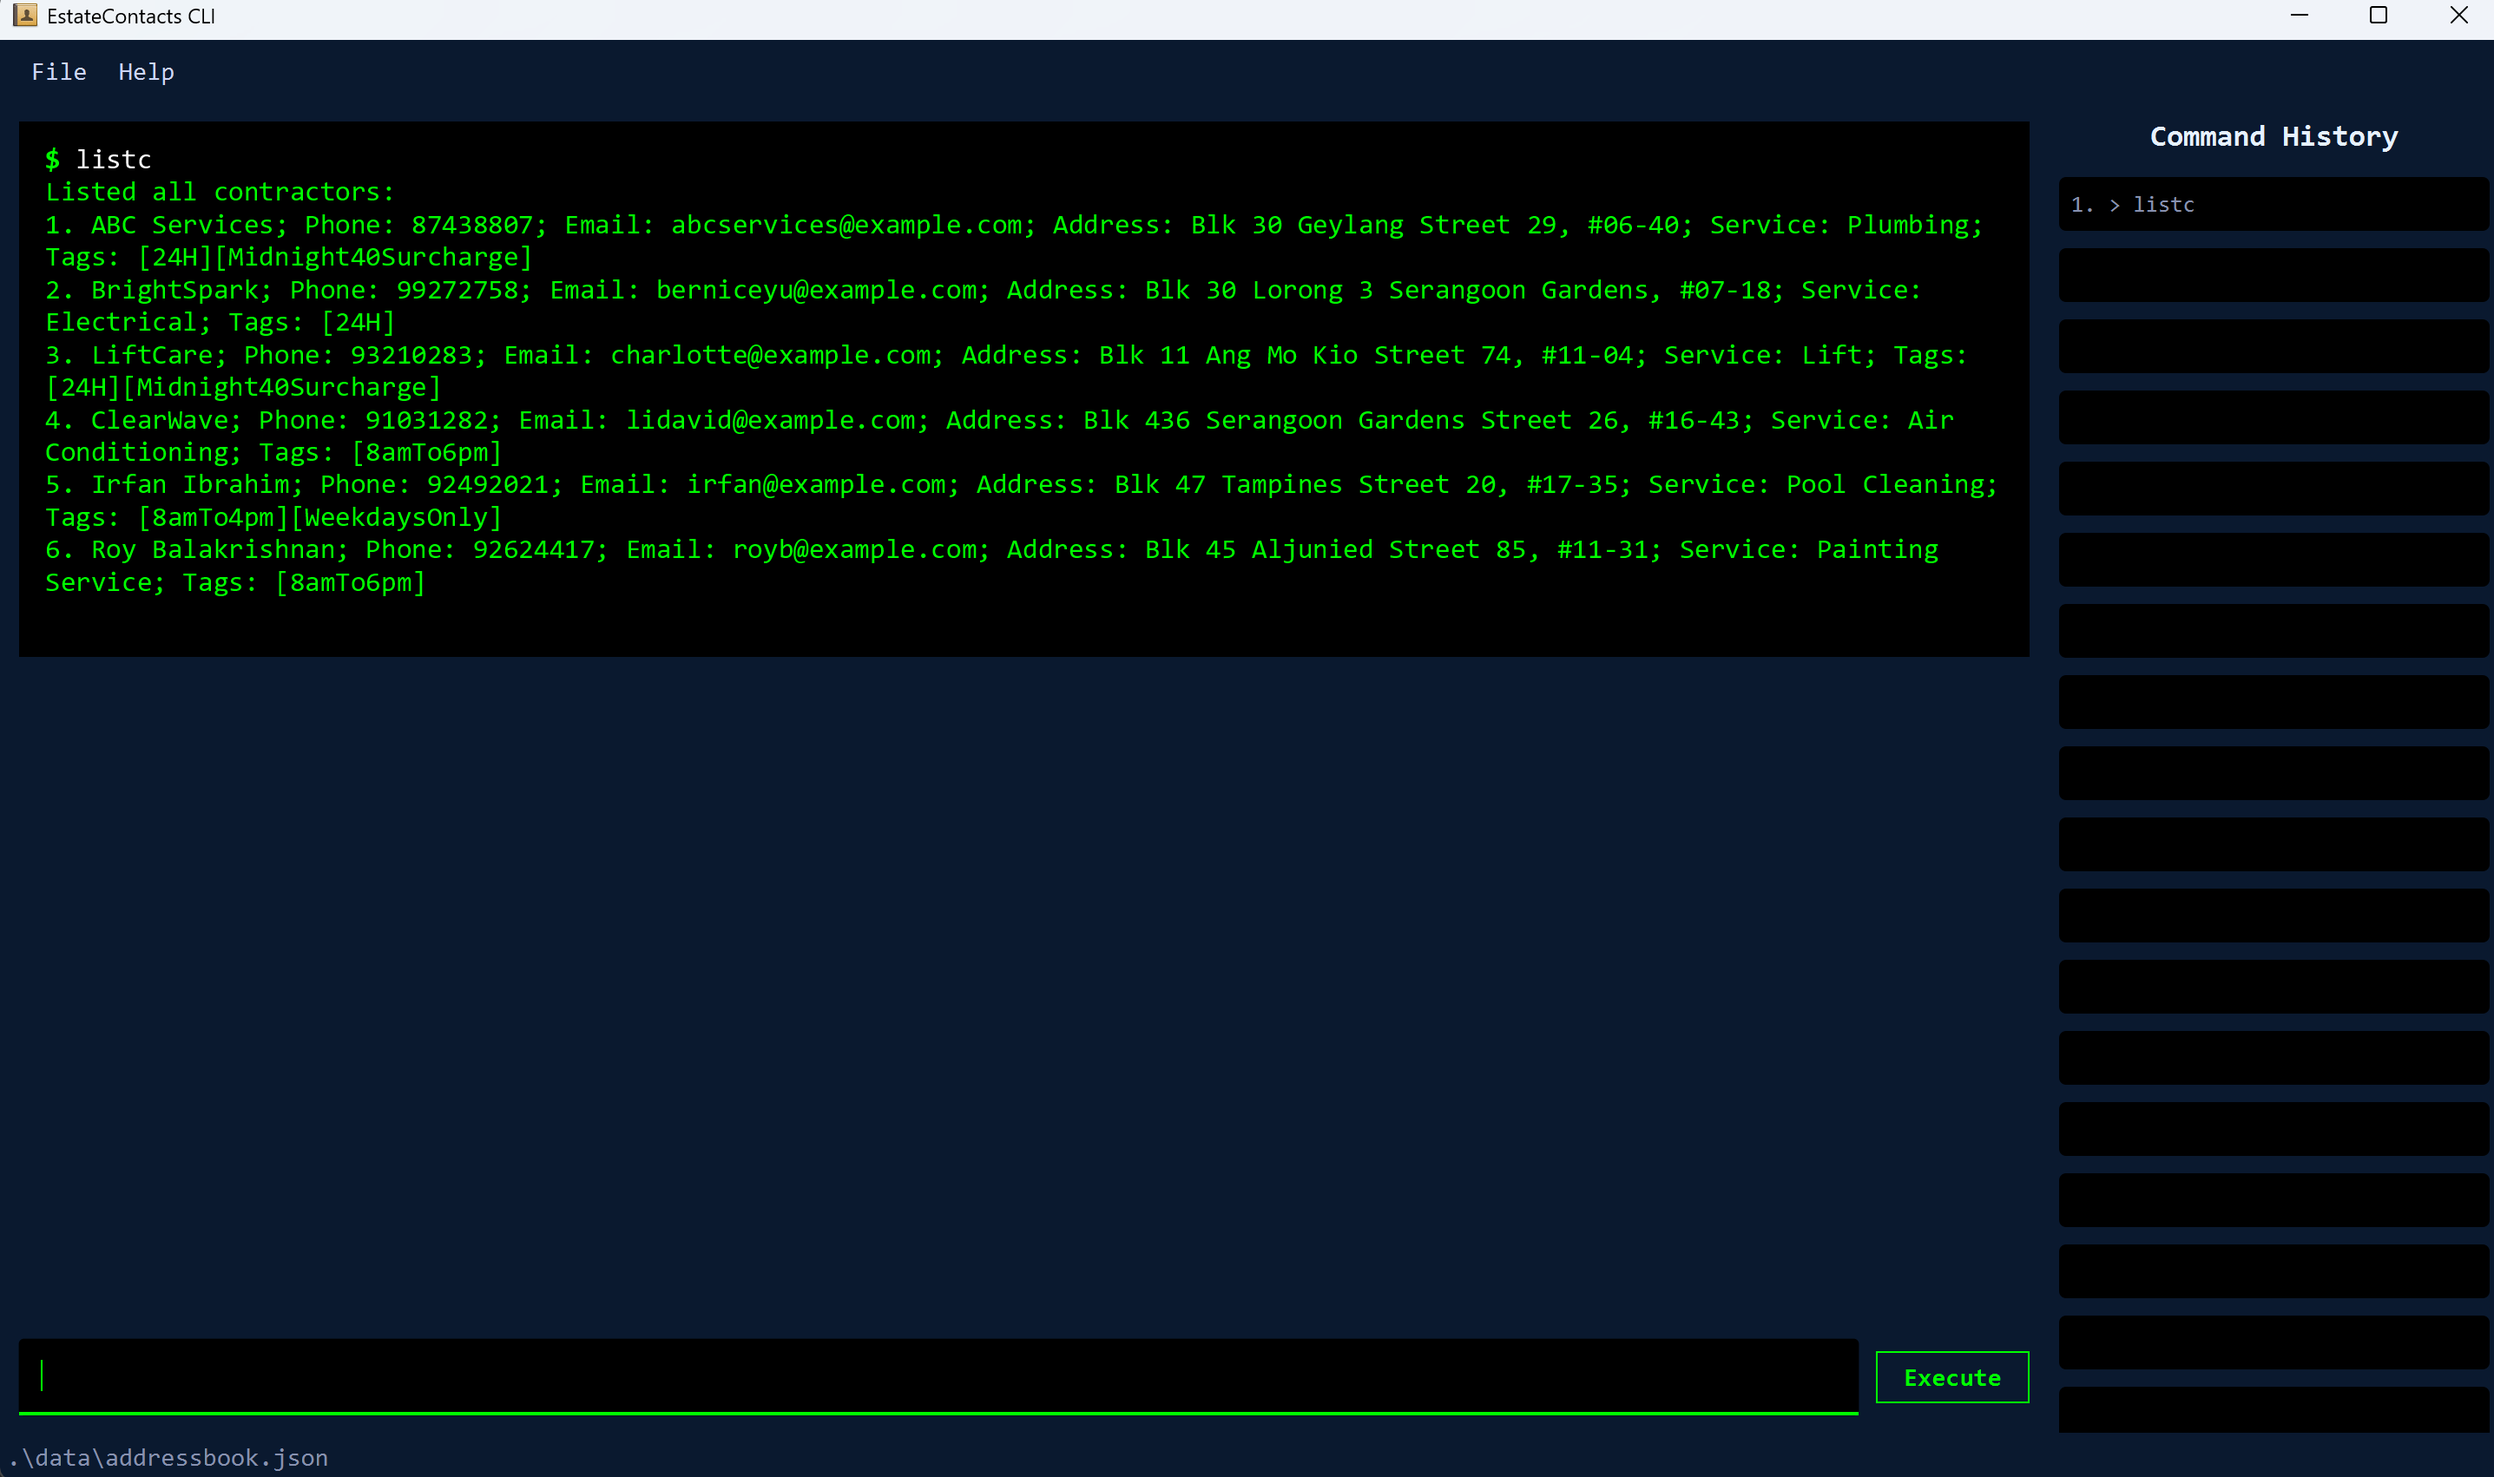
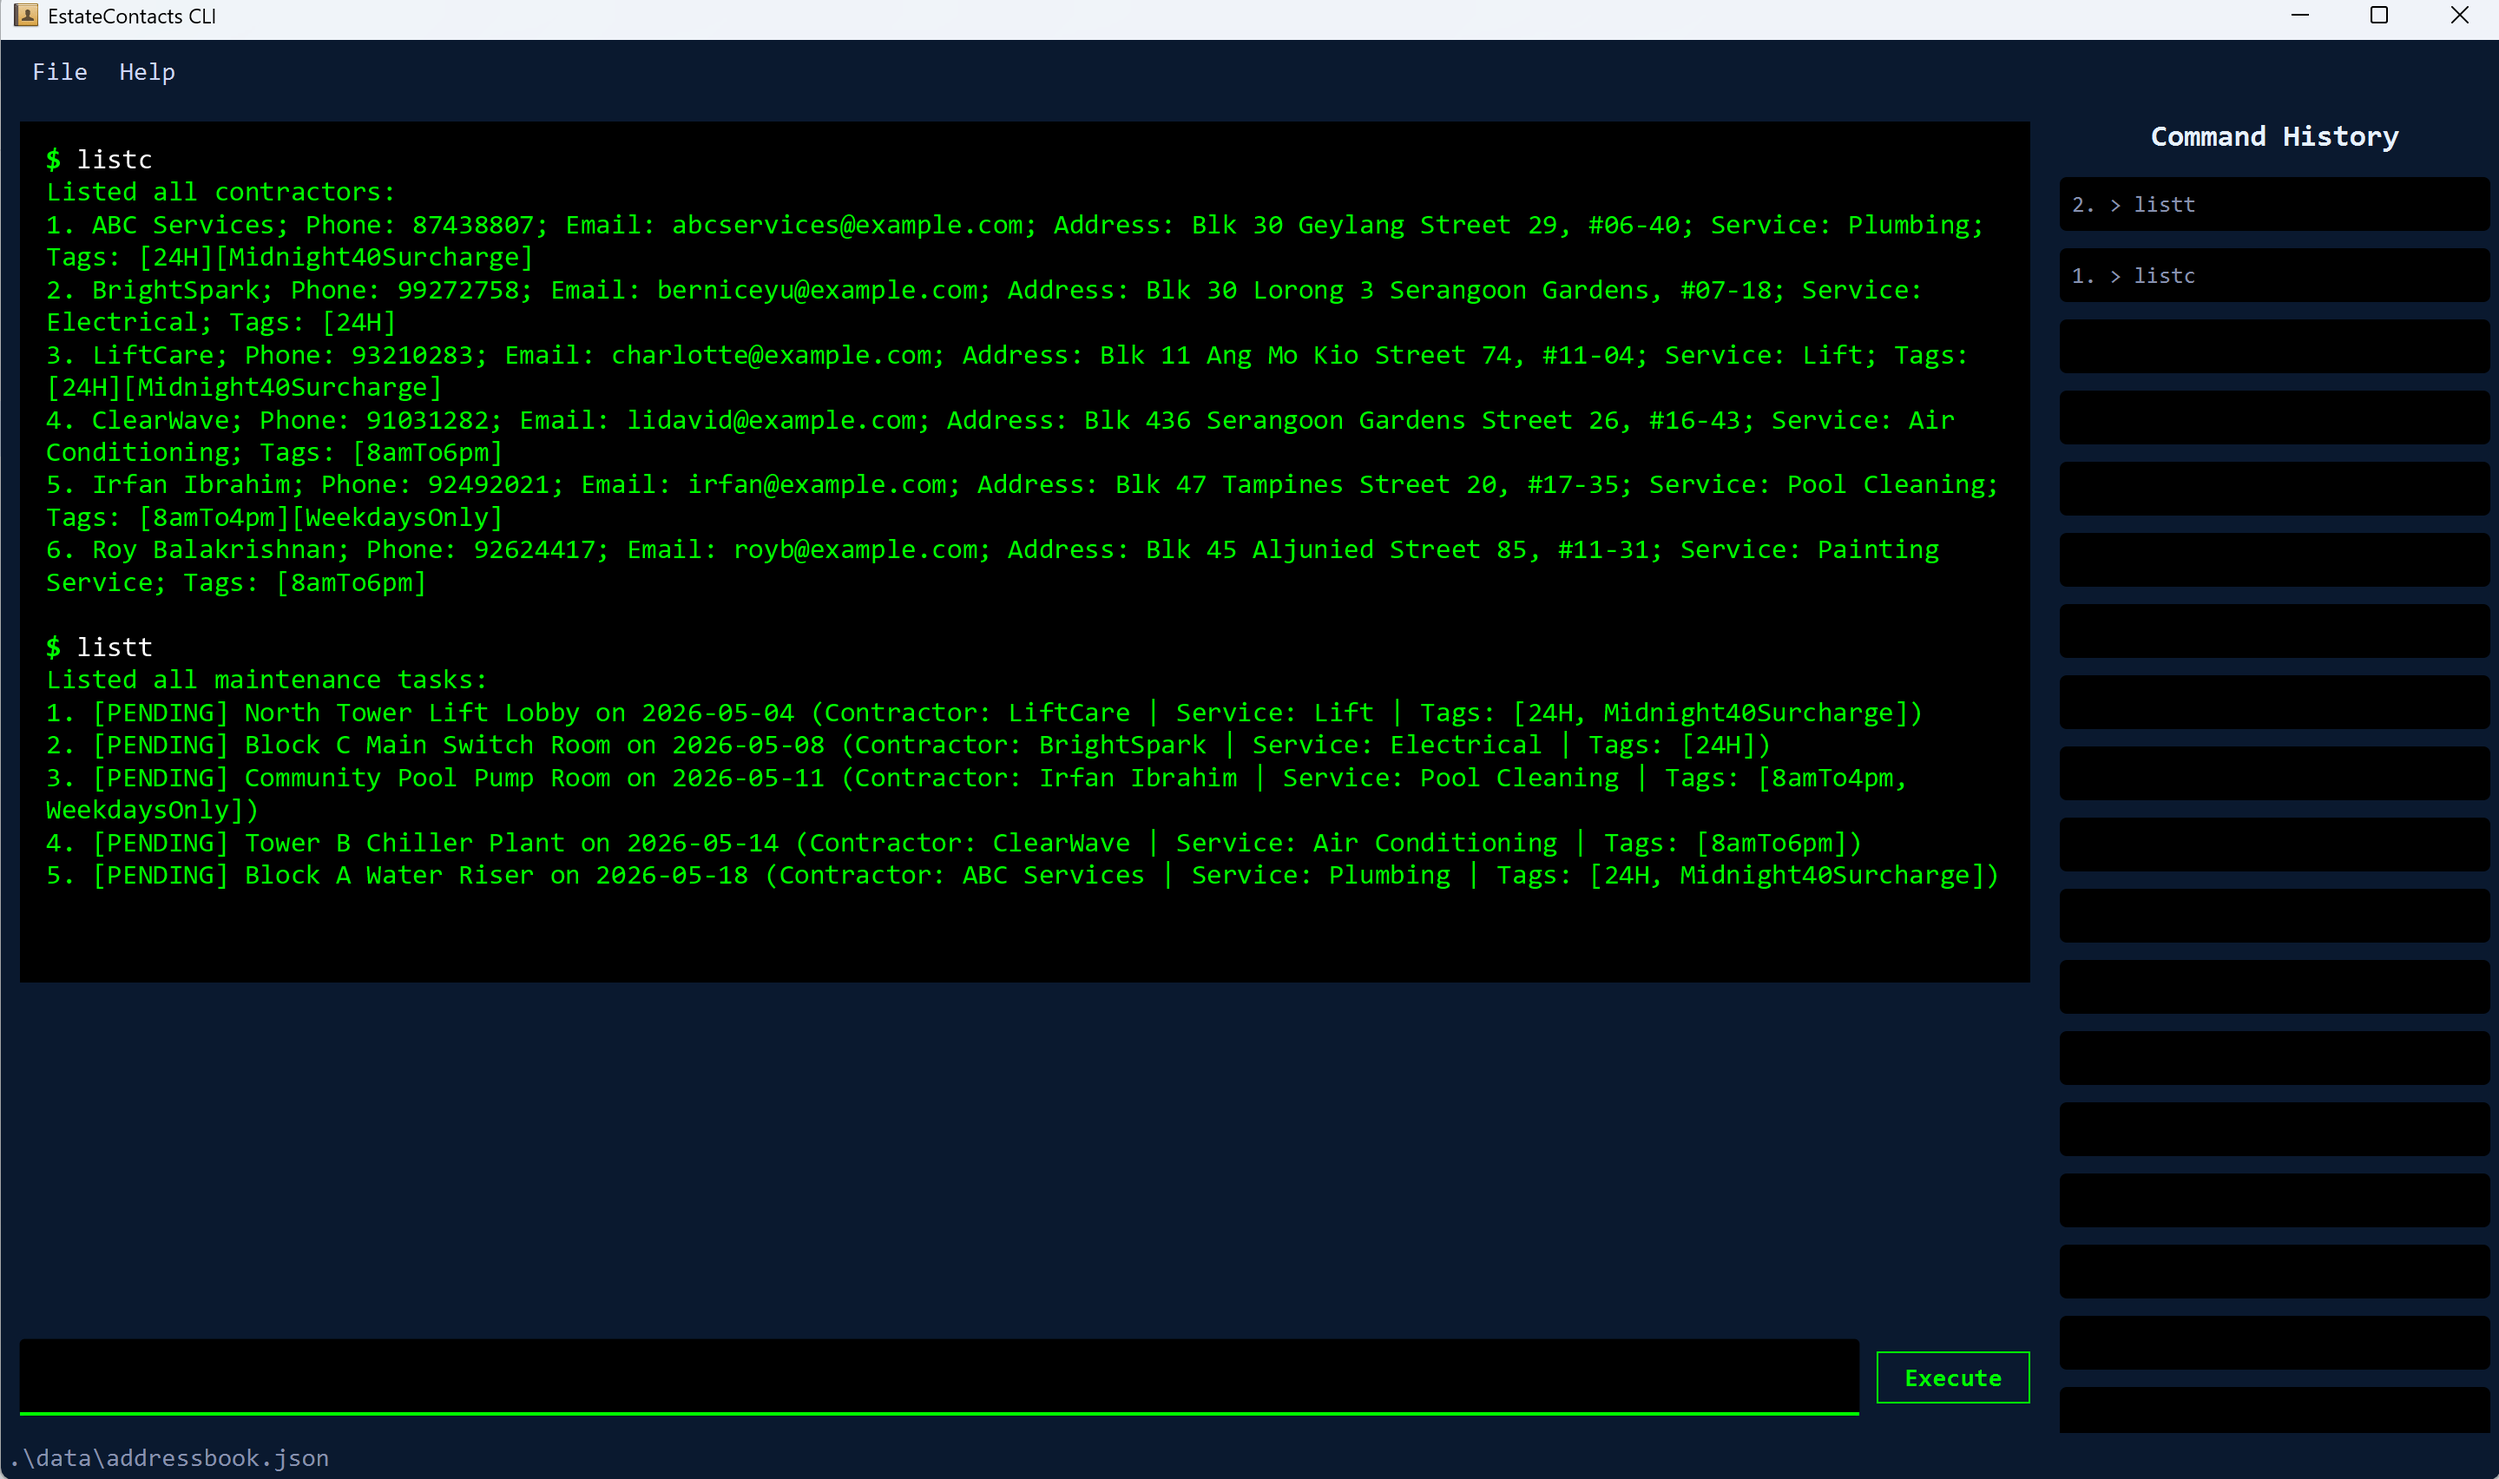
Update UG with example command images

diff --git a/docs/UserGuide.md b/docs/UserGuide.md
@@ -25,7 +25,7 @@ EstateContacts is a **desktop address book app for managing contacts, optimized 
 3. Copy the file to the folder you want to use as the _home folder_ for EstateContacts.
 
 4. Open a command terminal, `cd` into the folder you put the jar file in, and use the `java -jar estatecontacts.jar` command to run the application.<br>
-   A GUI similar to the below should appear in a few seconds. Note how the app contains some sample data.<br>
+   A GUI similar to the below should appear in a few seconds. Note how the app contains sample data for contractors and maintenance tasks.<br>
    ![Ui](images/Ui.png)
 
 5. Type the command in the command box and press Enter to execute it. e.g. typing **`help`** and pressing Enter will open the help window.<br>
@@ -37,7 +37,7 @@ EstateContacts is a **desktop address book app for managing contacts, optimized 
 
    * `delc 3` : Deletes the 3rd contact shown in the current list.
 
-   * `clear confirm` : Deletes all contacts and pending tasks. Completed tasks are preserved for reporting.
+   * `listt` : Lists all tasks.
 
    * `exit` : Exits the app.
 
@@ -109,11 +109,15 @@ Examples:
 * `addc n/Betsy Crowe t/friend e/betsycrowe@example.com a/Newgate Prison p/1234567 s/Electrical t/criminal`
 * `addc n/AirCool Pte Ltd p/91234567 e/contact@aircool.com a/10 Industrial Road s/Air Con Servicing t/24H`
 
+![addc](images/addc.png)
+
 ### Listing all contractors : `listc`
 
 Shows a list of all contractors in EstateContacts.
 
 Format: `listc`
+
+![listc](images/listc.png)
 
 ### Locating contractors by name or service : `findc`
 
@@ -139,12 +143,12 @@ For example, if `listc` shows Rachel Ng at index 5, but `findc n/Rachel` shows h
 
 </box>
 
-
 Examples:
 * `findc n/John` returns `john` and `John Doe`
 * `findc n/amy bob` returns `Amy Lee`, `Bob Tan`
 * `findc s/Air` returns contractors with service `Air`
-  ![result for 'find amy bob'](images/findByService.png)
+
+![find](images/find.png)
 
 ### Deleting a contractor : `delc`
 
@@ -160,12 +164,13 @@ Format: `delc INDEX`
 **Caution:** Deleting a contractor will **not** delete their associated maintenance tasks. Any tasks previously assigned to the deleted contractor will still appear in the task list with the contractor's details preserved at the time the task was created. It is recommended to delete associated pending tasks via `delt` before deleting a contractor.
 * After `delc INDEX`, contractors below that index shift up by 1. Example: deleting index 2 makes old index 3 become new index 2.
 
-
 </box>
 
 Examples:
-* `listc` followed by `delc 2` deletes the 2nd contractor in EstateContacts.
+* `listc` followed by `delc 6` deletes the 6th contractor in EstateContacts.
 * `findc n/Betsy` followed by `delc 1` deletes the 1st contractor in the results of the `findc` command.
+
+![delc](images/delc.png)
 
 ### Editing a contractor : `editc`
 
@@ -189,6 +194,8 @@ Format: `editc INDEX [n/NAME] [p/PHONE] [e/EMAIL] [a/ADDRESS] [s/SERVICE] [t/TAG
 
 Examples:
 * `editc 1 p/91234567 e/johndoe@example.com`
+
+![editc](images/editc.png)
 
 ### Maintenance task features
 
@@ -221,11 +228,15 @@ Examples:
 * `listc` followed by `addt f/Sports Hall d/2026-12-01 c/2` adds a task for Sports Hall on 1 Dec 2026 assigned to the 2nd contractor in the displayed list.
 * `listc` followed by `addt f/Function Room d/2026-06-20 c/4` adds a task for Function Room on 20 Jun 2026 assigned to the 4th contractor.
 
+![addt](images/addt.png)
+
 ### Listing all tasks : `listt`
 
 Shows a list of all tasks in EstateContacts.
 
 Format: `listt`
+
+![listt](images/listt.png)
 
 ### Editing a task : `editt`
 
@@ -237,7 +248,7 @@ Format: `editt INDEX [f/FACILITY] [d/DATE] [c/CONTRACTOR_INDEX]`
 * `INDEX`: Must be a positive integer (1, 2, 3, …) referring to the index shown in the displayed maintenance task list.
 * At least one optional field must be provided.
 * `FACILITY`: Must be between 1 and 50 characters (after trimming leading/trailing spaces).
-* `DATE`: Must be in `YYYY-MM-DD` format, must be a valid calendar date, and **must not be a date in the past**.
+* `DATE`: Must be in `YYYY-MM-DD` format and must be a valid calendar date (e.g. `2026-02-30` is invalid).
 * `CONTRACTOR_INDEX`: Must be a positive integer referring to the index shown in the **currently displayed contractor list**.
 
 <box type="warning" seamless>
@@ -250,10 +261,12 @@ Format: `editt INDEX [f/FACILITY] [d/DATE] [c/CONTRACTOR_INDEX]`
 
 </box>
 
-**Tip 2 :** You are allowed to edit tasks to dates in the past (e.g., to retroactively fix logs for completed maintenance work).
+**Tip:** You are allowed to edit tasks to dates in the past (e.g., to retroactively fix logs for completed maintenance work).
 
 Examples:
 * `editt 1 f/Function Room d/2026-12-15`
+
+![editt](images/editt.png)
 
 ### Deleting a task : `delt`
 
@@ -273,12 +286,16 @@ Format: `delt INDEX`
 Examples:
 * `delt 1`
 
+![delt](images/delt.png)
+
+
 ### Sorting tasks by date : `sortt`
 
 Sorts the maintenance task list by date (ascending).
 
 Format: `sortt`
 
+![sortt](images/sortt.png)
 
 ### Marking a task as complete : `donet`
 
@@ -291,6 +308,8 @@ Format: `donet INDEX`
 
 Examples:
 * `listt` followed by `donet 1` marks the 1st task as completed. Running `donet 1` again reverts it to pending.
+
+![donet](images/donet.png)
 
 ### Viewing maintenance history for a facility : `history`
 
@@ -305,6 +324,8 @@ Format: `history f/FACILITY_NAME`
 Examples:
 * `history f/Sports Hall` displays the maintenance history for the "Sports Hall".
 * `history f/Function Room` displays the maintenance history for the "Function Room".
+
+![history](images/history.png)
 
 ### Generating a monthly report : `report`
 
@@ -323,6 +344,8 @@ Examples:
 * `report m/2026-12` generates a report for December 2026.
 * `report m/2026-06` generates a report for June 2026.
 
+![report](images/report.png)
+
 ### General features
 
 ---
@@ -333,7 +356,7 @@ Shows a message explaining how to access the help page. You can also press the `
 
 Format: `help`
 
-<img src="images/helpCommand.png" width="400" height="511" />
+<img src="images/help.png" width="400" height="511" />
 
 <box type="warning" seamless>
 
@@ -354,14 +377,16 @@ Format: `clear confirm`
 
 </box>
 
+![clear confirm](images/clearConfirm.png)
+
+
 ### Exiting the program : `exit`
 
 Exits the program.
 
 Format: `exit`
 
-
-
+---
 
 ### Saving the data
 
